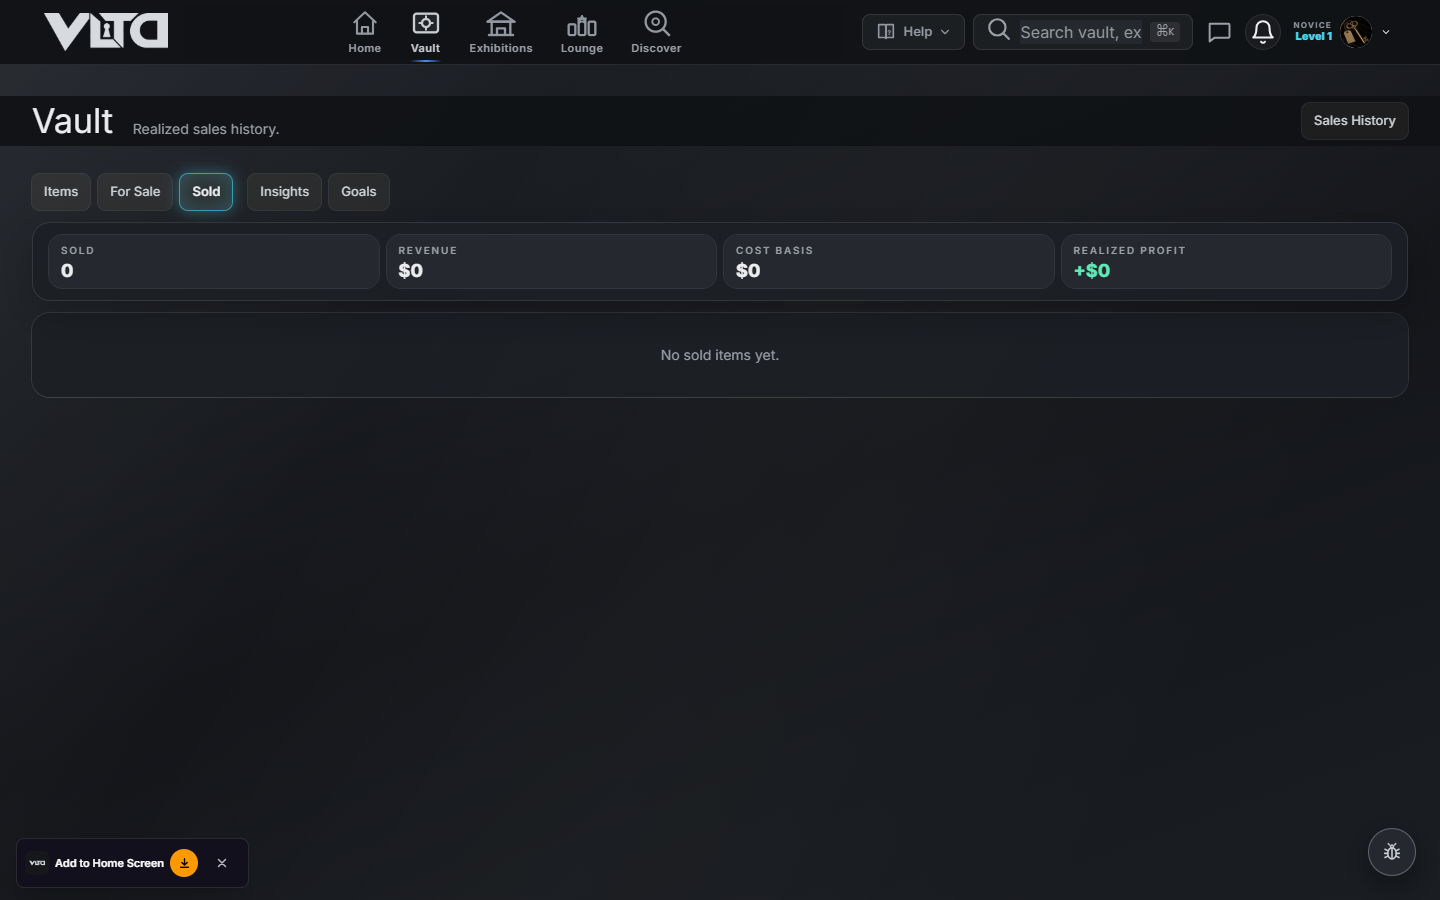
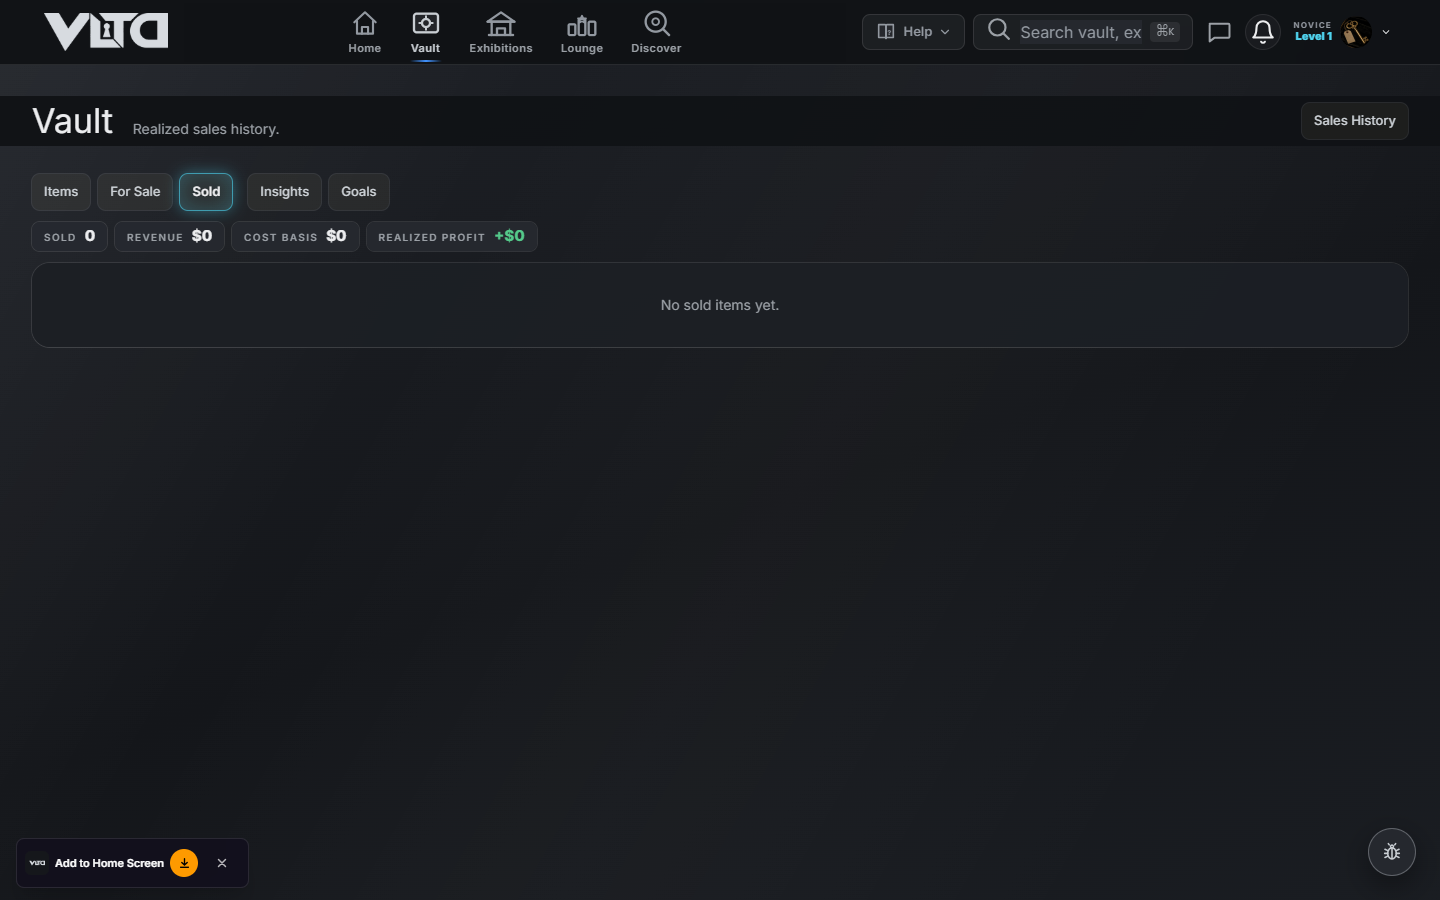
Correction-set evidence: before/after screenshots (production and local), index, scripts

diff --git a/docs/visual-2026-10-18/corrections/README.md b/docs/visual-2026-10-18/corrections/README.md
@@ -1,0 +1,16 @@
+# Correction set (Sold, Insights, Recently added, For Sale, centering): before / after
+
+Production commit under test: **`718c24c`** (the last code change; later commits are evidence only). Synthetic QA account. Full-height captures taken only after every image on screen had loaded and the text stopped changing.
+Phone widths are an emulated viewport (390 and 320 px) and phone touch is **browser-emulated touch**, not a physical device.
+
+| Folder | What it is |
+|---|---|
+| `before/` | production before the changes (commit `47a8039`'s parent state): `sold-1669-dark`, `sold-390-dark`, `sold-320-dark`, `insights-1669-dark`, `forsale-1669-dark`, `forsale-390-dark`, `home-1669-dark`, `home-390-dark` |
+| `local1/`, `local2/` | the local build while working (local only): Sold, Insights, For Sale at 1669/1440/1280/390/320, Home, light variants, Insights card close-ups |
+| `after/` | production after: Sold (populated, 7 items, two categories), Insights, For Sale (3 items), Home at 1669/1440/1280/390/320 dark and 1440/390 light |
+| `after-1item/` | production, one item: `forsale-1669/390/320-dark`, `sold-1669/390/320-dark` |
+| `after-empty/` | production, empty: `forsale-1669/390-dark`, `sold-1669/390-dark` |
+
+Annotated screenshots to files: (1) Sold row, summary chips and empty second row: `before/sold-1669-dark.png` / `after/sold-1669-dark.png`; (2) Sold cards and search: same files; (3) Insights summary cards: `before/insights-1669-dark.png` / `after/insights-1669-dark.png` (close-ups `local2/insights-cards-1669.png`, `-390.png`); (4) colours and the -$34 card: same Insights files, `after/home-1669-dark.png`; (5) Recently added: `before/home-1669-dark.png` / `after/home-1669-dark.png` (behaviour verified by input events, see the report); (6) For Sale: `before/forsale-1669-dark.png` / `after/forsale-1669-dark.png`, `after-1item/`, `after-empty/`; (7) centering: all `after/` captures plus the measurements in the report.
+
+Scripts: `../scripts/` (`corr-shots.cjs`, `corr-verify.cjs`, `corr-test.cjs`, `centering.cjs`, fixtures). They need the synthetic-account helpers in `docs/ui-verification-2026-10-17/scripts/`.
